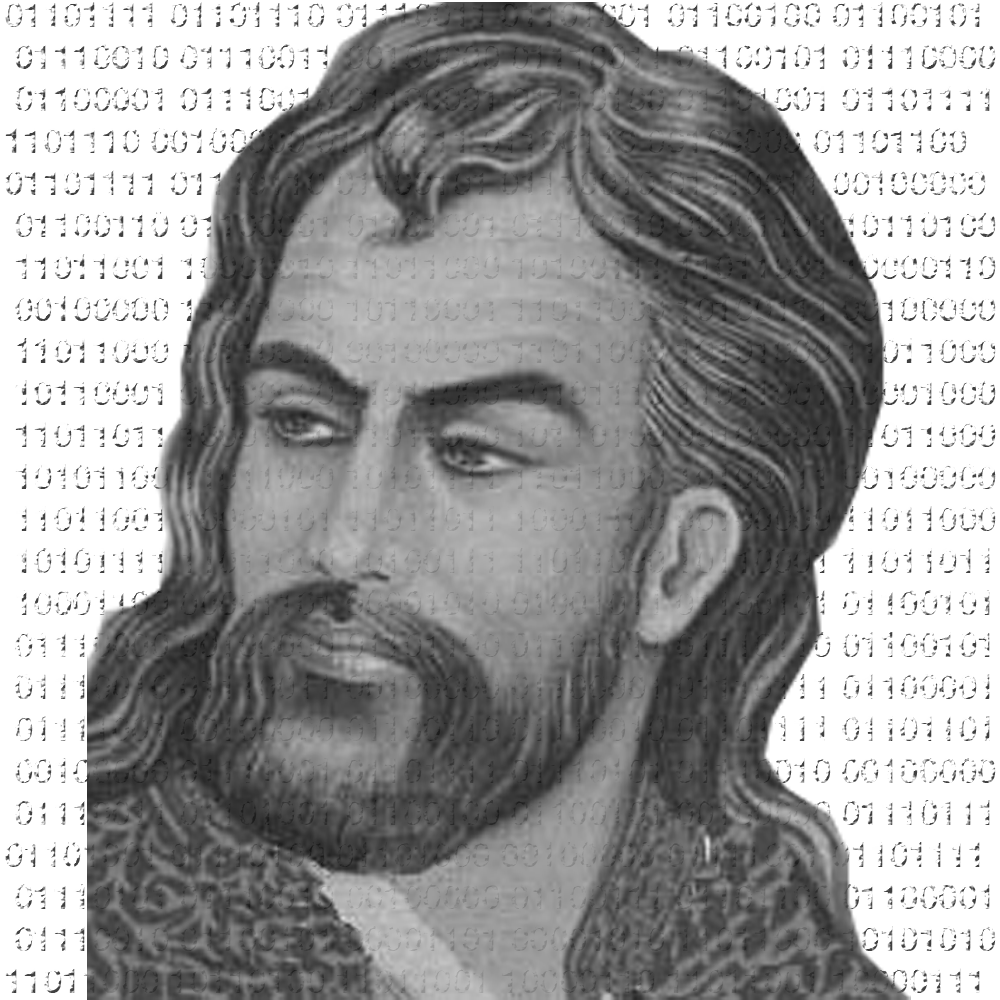
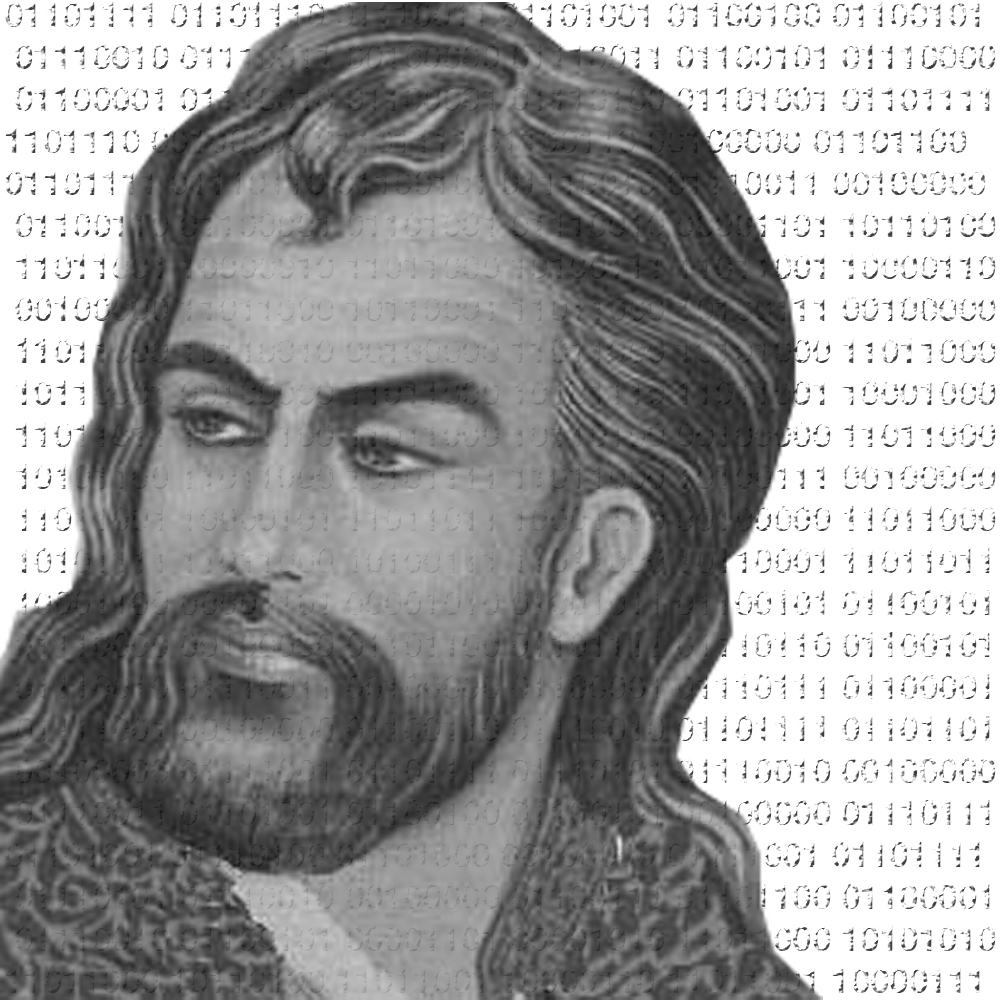
Adding JavaScript & CSS Animations

diff --git a/index.html b/index.html
@@ -7,67 +7,60 @@
 </head>
 <body>
 	<div id="container">
-		<header class="header">
-			<div class="english">
-				<h1 id="english-title">Persian New Year<br>2316</h1>
-				<p id="nowruz-info">Nowruz is the traditional Iranian festival of spring which starts at the exact moment of the vernal equinox, commencing the start of the spring. It is considered as the start of the New Year among Iranians. The name comes from Avestan meaning "new day/daylight".</p>
-				<p id="haftseen-info">Haft-Seen is a tabletop arrangement of seven symbolic items traditionally displayed at Nowruz. The haft-seen table includes seven items all starting with the letter Seen in the Persian alphabet.</p>
+		<header id="header" class="header">
+			<div id="english">
+				<p> Persian New Year<br>2316<br><br>
+				Nowruz is the traditional Iranian festival of spring which starts at the exact moment of the vernal equinox, commencing the start of the spring. It is considered as the start of the New Year among Iranians. The name comes from Avestan meaning "new day/daylight".
+				<br>Haft-Seen is a tabletop arrangement of seven symbolic items traditionally displayed at Nowruz. The haft-seen table includes seven items all starting with the letter Seen in the Persian alphabet.</p>
 			</div>
 			<div class="farsi">
 			</div>
-			<img class="rug">
 		</header>
+	</div>
 
 <!-- haftseen -->
 		<section id="haft-seen">
-			<article class="haft-seen-item">
-							<div class="haft-seen-details">
-								<h2 class="haft-seen-title">Sabz</h2>
-								<p class="haft-seen-description">
+			<article class="haft-seen-item" id="sabzeh"></article>	
+			<article class="haft-seen-item" id="seeb">
+				<p class="haft-seen-description">
 			</article>	
-			<article class="haft-seen-item">
-							<div class="haft-seen-details">
-								<h2 class="haft-seen-title">Seeb</h2>
-								<p class="haft-seen-description">
+			<article class="haft-seen-item" id="sumac">
+				<div class="haft-seen-details" >
 			</article>	
-			<article class="haft-seen-item">
-							<div class="haft-seen-details">
-								<h2 class="haft-seen-title">Sumac</h2>
-								<p class="haft-seen-description">
+			<article class="haft-seen-item" id="sombol">
+				<div class="haft-seen-details">
+					<h2 class="haft-seen-title">sombol</h2>
+					<p class="haft-seen-description">
 			</article>	
-			<article class="haft-seen-item">
-							<div class="haft-seen-details">
-								<h2 class="haft-seen-title">sombol</h2>
-								<p class="haft-seen-description">
+			<article class="haft-seen-item" id="seer">
+				<div class="haft-seen-details">
+					<h2 class="haft-seen-title"></h2>
+					<p class="haft-seen-description">
 			</article>	
-			<article class="haft-seen-item">
-							<div class="haft-seen-details">
-								<h2 class="haft-seen-title">Seer</h2>
-								<p class="haft-seen-description">
+			<article class="haft-seen-item" id="sehkeh">
+					<div class="haft-seen-details">
+						<h2 class="haft-seen-title"></h2>
+						<p class="haft-seen-description">
 			</article>	
-			<article class="haft-seen-item">
+			<article class="haft-seen-item" id="vinegar">
 							<div class="haft-seen-details">
-								<h2 class="haft-seen-title">sehkeh</h2>
-								<p class="haft-seen-description">
-			</article>	
-			<article class="haft-seen-item">
-							<div class="haft-seen-details">
-								<h2 class="haft-seen-title">Serkeh</h2>
+								<h2 class="haft-seen-title"></h2>
 								<p class="haft-seen-description">
 			</article>
 			<article class="haft-seen-item" id="kehtab">
-							<div class="haft-seen-details">
-								<h2 class="haft-seen-title">kehtab</h2>
-								<p class="haft-seen-description">
+					<h2 class="haft-seen-title"></h2>
+					<p class="haft-seen-description">
 			</article>	
-			<article class="haft-seen-item">
-							<div class="haft-seen-details">
-								<h2 class="haft-seen-title">ayneh</h2>
-								<p class="haft-seen-description">
+			<article class="haft-seen-item" id="ayneh">
+				<div class="haft-seen-details">
+					<h2 class="haft-seen-title"></h2>
+					<p class="haft-seen-description">
 			</article>	
 		</section>
 
-	</div>
+
+<!-- JS -->
+	<script src="js/main.js"></script>
 
 </body>
 </html>

diff --git a/styles.css b/styles.css
@@ -1,3 +1,5 @@
+@import 'https://fonts.googleapis.com/css?family=Open+Sans+Condensed:300|Reem+Kufi|Roboto+Mono';
+
 @media (min-width: 600px) {
 	font-size:.8em;
 }
@@ -7,7 +9,7 @@ body {
 	height:100%;
 	margin:0;
 	padding:0;
-	font-family: "Open Sans Condensed", sans-serif;
+	font-family: 'Open Sans Condensed', sans-serif;
 	position: relative;
 	top:0;
 	left:0;
@@ -17,7 +19,6 @@ body {
 #container {
 	width: 100vw;
 	height:96vh;
-	/*background-image: url("images/antique-tree-life-tabriz-rug.jpg"); */
 	background-image: url("images/scramble2.jpg");
 	background-size:cover;
 	position: absolute;
@@ -28,33 +29,30 @@ body {
 	z-index: -1;
 }
 
-.english {
-/* 	background-color: green; */
-	background-image: url("images/scramble-left.jpg");
-	font-family: '#', sans-serif;
+#english {
+	font-size: 16pt;
 	position: absolute;
 	margin-left: 50px;
 	padding:10px;
 	width:300px;
 	height:500px;
-	display: block;
-	color: 0;
-}
-
-#english-title {
-	font-size: 30pt;
-/*	display:none;*/
+	color: #A1A0A8;
 	z-index: 99999;
+	display: block;
 
 }
 
-/*.nowruz-info, .haftseen-info {
+
+.is-hidden {
 	display: none;
 }
 
-.english-title:hover, .nowruz-info:hover, .haftseen-info:hover < #english-title {
-	display:block;
-}*/
+.is-visible {
+	display: block;
+}
+
+
+
 
 .farsi {
 	background-image: url("images/nowruz-title2.png");
@@ -82,44 +80,91 @@ body {
 
 .haft-seen-item {
 /*	display: hidden;*/
-/*	background-color: white;*/
-	background-image: url("images/scramble-left.jpg");
-	display:inline-block;
+/*	background-image: url("images/scramble-left.jpg");
+*/	display:inline-block;
 	height: 150px;
 	width:150px;
 	margin-top: 10px;
 	padding:35px;
+	background: blue;
 
 }
 
-#kehtab {
-	animation: flashHafiz 3s;
+/*#sabzeh {
+	font-family: 'Roboto Mono', sans-serif;
+}*/
 
 
+.animation-class {
+	-webkit-animation-name: flashHafiz;
+	-webkit-animation-duration:4s;
+	-webkit-animation-iteration-count: 2;
+	-webkit-animation-timing-function: ease;
+	-webkit-animation-fill-mode: forwards;
 }
-/*on hover animate from one image to next
-/*JS - on click give info*/
-/*in JS give a class only for js to hold animation, target class, class list add class*/
-/*classlist.add*/
-/*if mouse enter add class list, else class empty " " */
-@keyframes flashHafiz {
+
+@-webkit-keyframes flashHafiz {
+	from {
+	-webkit-background-image: url("images/binaryCode.png");
+	-webkit-transform: scale(5);
+	}
+	to {
+	-webkit-background-image: url("images/hafiz.png");
+	-webkit-transform: scale(9);
+	}
+}
+
+/*@keyframes flashHafiz {
   0% {
-    background-image: url("images/binaryCode.png");
+    background-image: 
     transform: scale(5);
   }
   60% {
     background-image: url("images/hafiz.png");
-/*    transform: scale(7);
-*/  }
+    transform: scale(7);
+  }
   100% {
     background-image: url("images/binaryCode.png");
     transform: scale(9);
   }
+}*/
+
+#sehkeh {
+	animation: creditcard 3s;
 }
 
-#kehtab:hover {
-/*	animation: flashHafiz 3s;
-*/	animation-delay: 1s;
-/*	animation-iteration-count: 2;
-	animation-play-state: playing;*/
+#sehkeh:hover {
+	animation-delay: 1s;
+
 }
+
+
+
+@keyframes creditcard {
+ 	0% {
+    	background-image: url("images/creditcard.png");
+    	display: block;
+  	}
+  	25% {
+  	  	background-image: url("images/creditcard.png");
+    	transform: rotate(90deg);
+		  transform: scale(7);  
+	}
+	50% {
+    	background-image: url("images/creditcard.png");
+   		transform: rotate(180deg); 
+	}
+	75% {
+    	background-image: url("images/creditcard.png");
+   		transform: rotate(270deg);
+	}
+  	100% {
+    	background-image: url("images/creditcard.png");
+    	transform: rotate(360deg);
+		}
+}
+
+#vinegar:hover {
+	transform: translate(-30px,0px);
+	transform: translate();
+}*/

diff --git a/JS/main.js b/JS/main.js
@@ -1,10 +1,99 @@
-// var card [
-// 	["card1", "img/image.jpg", "info"],
-// 	["card2", "img", "info"],
+onload=alert("ERROR: Decipher Failed\nEncryption Detected.");
 
-// ];
-// card[0][0] == 
+//Cursor artwork created by Ervin Bolat from the Noun Project
+// function setCursorByID(laser,pointer) {
+//  var elem;
+//  if (document.getElementById && (elem=document.getElementById("laser")) ) {
+//   if (elem.style) elem.style.cursor=cursorStyle;
+//  }
+// }
 
-// for (var i = 0; i<cards.length; i++) {
-// 	card = cards[i]
-// };
+//Leftside info
+//text animation
+
+
+
+//Haftseen 1, Sabzeh
+//click, alert --> alert onload
+	
+//Haftseen 2, Seeb
+//click, image + description
+
+// onclick = function() {
+// 	document.getElementById("seeb").addEventListener("click", 
+// 	document.getElementById("english").style.display;
+// 	// this is function within
+
+// 	console.log("finished");
+	
+// });
+
+//Haftseen 3, sumac
+//hover, farsi 
+//click, language does not exist alert
+
+// onmouseover=document.getElementById('input').style.backgroundColor='Blue';">
+// <input id="input">
+// 	alert("ERROR: Language unknown.")
+
+
+//Haftseen 4, Sombol
+//click, scramble animation
+
+
+//Haftseen 5, seer
+//click, image + description
+
+//Haftseen 6, sehkeh (money)
+//hover, credit card
+//click, description
+
+
+//Haftseen 7, vinegar
+//hover, scramble animation
+// var scramble = document.getElementById("vinegar");
+
+// scramble.onclick=function(){
+// 	document.getElementById("");	
+// 	scramble.classList.toggle("");
+// }
+
+
+//Haftseen 8, kehtab
+//click, binary code/english popup
+
+var header = document.getElementById("header");
+var half_kehbab = document.getElementById("kehbab");
+
+var actions = function() {
+	header.classList.add('is-hidden');
+}
+
+var actions_reverse = function() {
+	header.classList.remove('is-hidden');
+}
+
+
+
+header.addEventListener("click", actions, false);
+header.addEventListener("mouseover", actions, false);
+header.addEventListener("mouseout", actions_reverse, false);
+
+// /;/ var hafiz = document.getElementById("kehtab");
+
+// // hafiz.addEventListener("mouseover")
+
+// //applying a CSS animation
+
+// hafiz.ondblclick = function(){
+// 	boxfive.classList.toggle("do-spin");
+// 	boxfive.classList.add("kehtab");
+// }
+
+//Haftseen 9, ayneh
+//click, image + description
+
+
+
+
+
